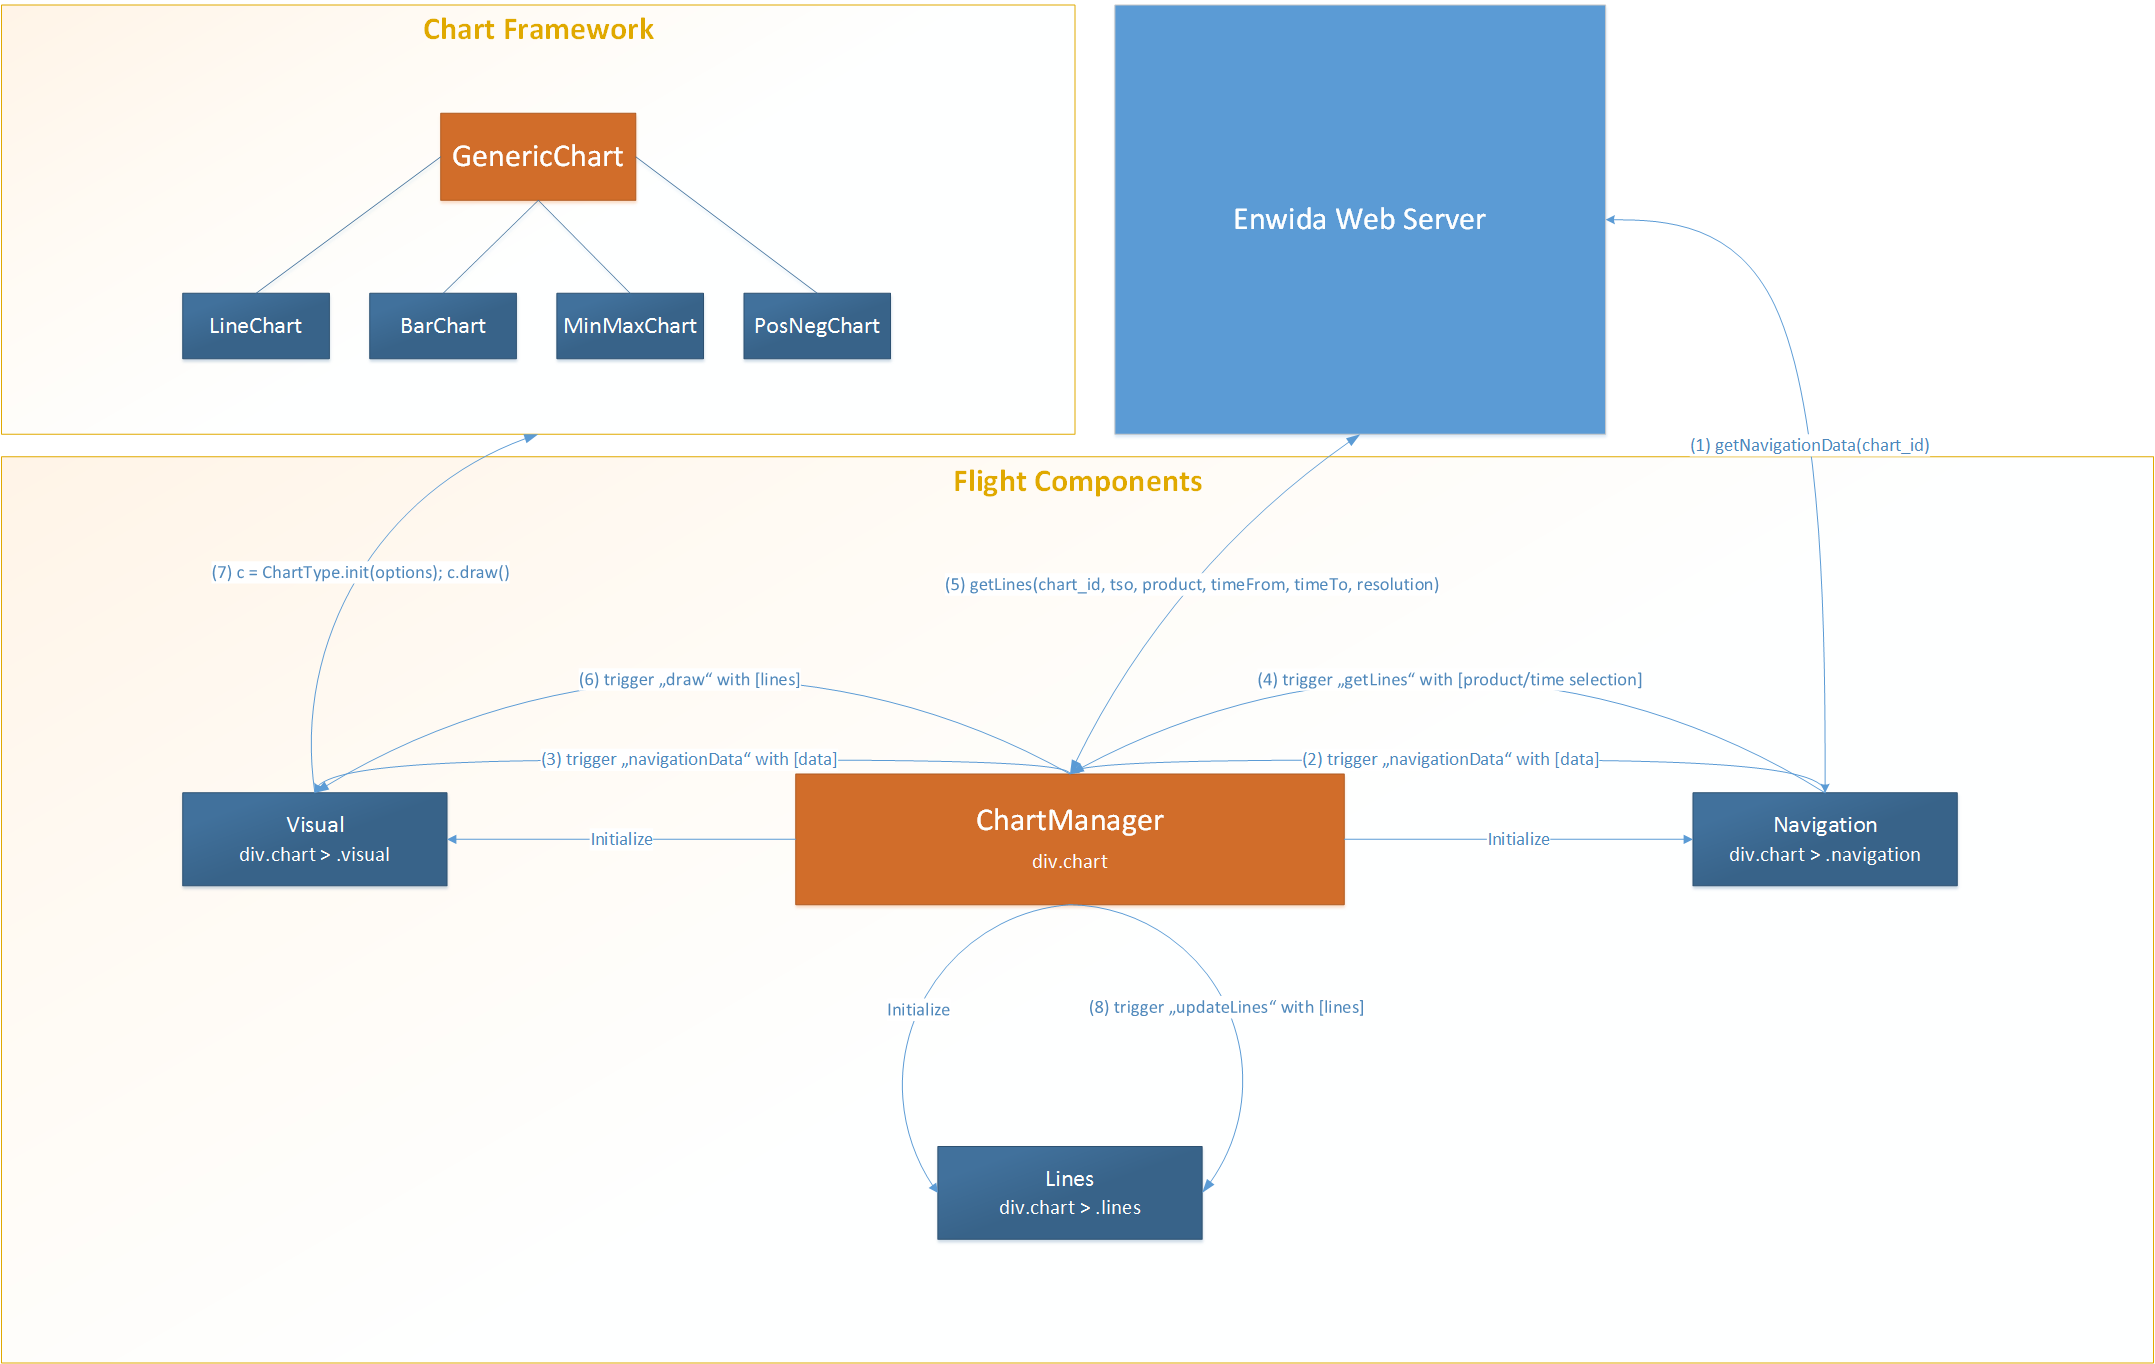
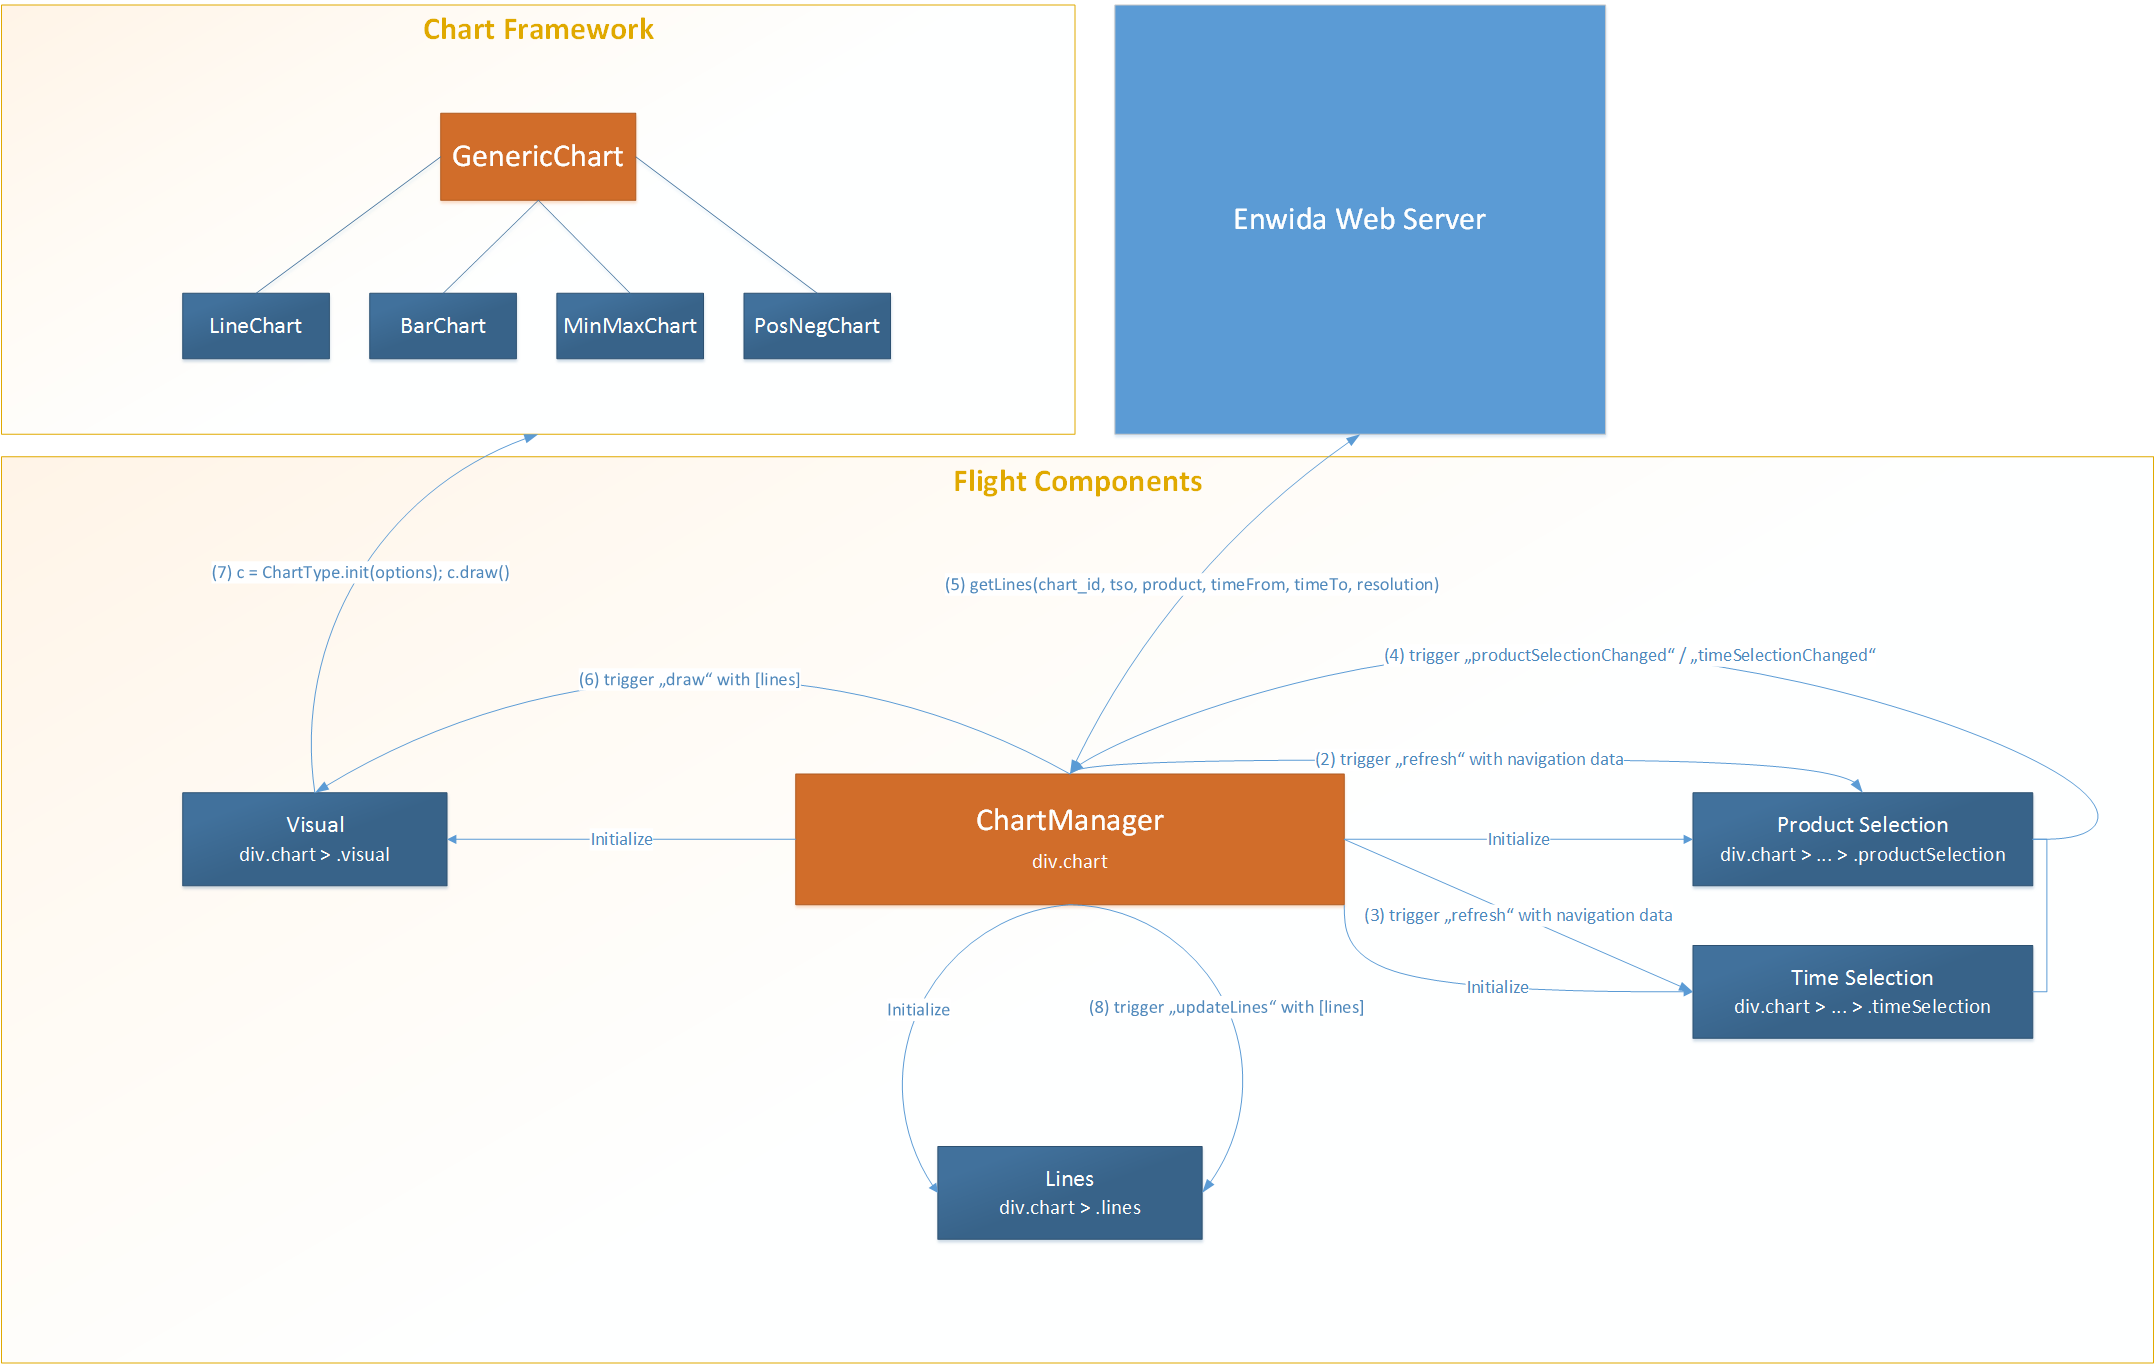
Correct event names in frontend documentation

diff --git a/documents/frontend.md b/documents/frontend.md
@@ -312,7 +312,7 @@ Important files/directories in `js/chart`:
 ### Layout
 The basic layout of the chart element is shown in the following structure.
 
-<div style="border: 1px solid #880000; font-size: 16px; padding: 10px; max-width: 600px">
+<div style="border: 1px solid #880000; font-size: 16px; padding: 10px; max-width: 600px; margin-bottom: 10px;">
   .chart
   <div style="border: 1px solid #bb0000; padding: 10px; margin: 10px;">
     .visual
@@ -537,8 +537,8 @@ in a full date format.
 This is achieved by setting the `original-title` attribute of the elements in question and calling
 the `tipsy` function on their corresponding jQuery wrapper object.
 
-### Navigation
-The navigation layer of the charts frontend can be divided into three components:
+### Selection
+The selection layer of the charts frontend can be divided into three components:
 
 - Line selection
 - Product selection
@@ -565,10 +565,9 @@ elements) for TSO and product number parts.
 Afterwards, the navigation data for the corresponding chart id are requested from the web server.
 This data is then used to fill the combo boxes with their corresponding options. The product trees
 play an important role in this process. As a next step, the default values are applied to the
-elements a `getLines` event is triggered to the `ChartManager`. This way, the user sees the
-chart representing his/her default selection.
+elements.
 
-When the users selects a new product configuration another `getLines` event is fired.
+When the users selects a new product configuration a `productSelectionChanged` event is fired.
 Moreover, the product selection elements adapt their values according to the product trees.
 
 #### Time Range Selection
@@ -584,7 +583,7 @@ version of the [improved bootstrap datepicker](http://eternicode.github.io/boots
 has been used.
 Depending on the selected time range it allows you to select a single day, a single week, a single
 month, or a single year. As soon as the time range or the beginning date are changed, a
-`getLines` event is fired.
+`timeSelectionChanged` event is fired.
 
 A separate timestamp is managed for each time range which is synchronized when a beginning date
 of another time range is changed.
